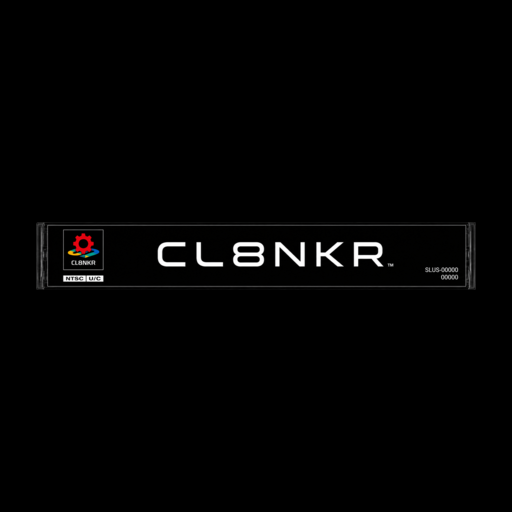
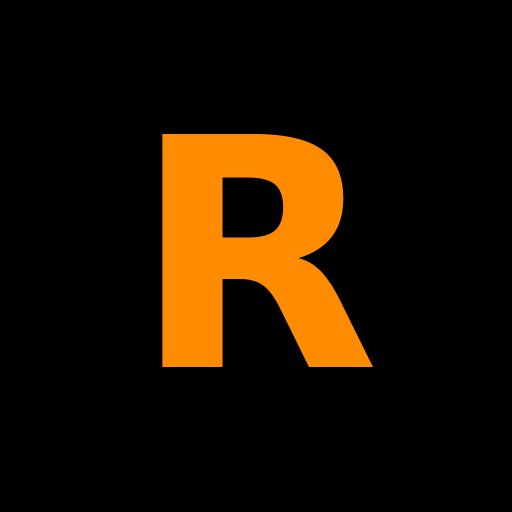
Replace ai-cmd's image branding with a text wordmark
Drop banner.png/skull-art holdovers from Clankr; header/PIN-gate now
render "REVERB" as styled text instead. Retheme --accent to the
burnt-amber CRT palette (matches kitty/VS Code) and regenerate PWA
icons to match instead of shipping CL8NKR's.

diff --git a/src/components/ChatView.jsx b/src/components/ChatView.jsx
@@ -6,54 +6,6 @@ import { playThinkingBeep, playDoneBeep } from '../audio.js';
 
 const DEFAULT_SYSTEM = 'You are Reverb, a personal assistant with access to the user\'s texts, calendar, and email. You have three tools: get_recent_texts, get_upcoming_events, and get_recent_emails. Use them whenever the user asks about messages, their schedule, or their inbox — never guess at this information. Answer everything else from your own knowledge.';
 
-const SKULL = `
-                                                              67         24
-                                                        6                     72587
-                                                                                  7245882
-                                                2              6   6                6744558846
-                                                 66  6   6  6       6 6                62488888856
-                                           6 66 666    6   6 66 6  6  666  66             7455888885
-                                         6    6666      66 6 6  6 6 6     6     6 6   667 624458888885
-                                       6  6       6  6 6    6 6  6 6 66 6 66      6     6724455558888882
-                                      6  66  6666666   6      6 6 6  6 6   6    6666667772255588588888887
-                                     7  6666 66666  6     6 6                      6744444445888858888888
-                                     7  666 6 6                          6        762425558888588888888888
-                                     2   6    66666666 666766666666666666   777762424228885455558888888888
-                                     2    66 6         6       6                 6624248544545888858588888
-                                     7   66  6  6 6    66     66       6666       674448554248885588588888
-                                     2                 6 6  6                 6    62258552588855588588888
-                                    66                 7                           7 645525888855555555888
-                                            6442        76          625888852     6     458888544554545888
-                                       488888888884   7 7         25888855544455542 74    6458545555245885
-                                     488888888888584       27    7588885552767454446 472   64855455445884
-                                      58888885458852      7446   788885555267667252 27577626 55855555882
-                                      78888884558854767   2447 6  6488555427776  65 6767  7766455588588
-                                      688888844582745888456 4667      58552666276657      677 255885588
-                                       88888852     4888725   76        65542  6747    6  224 288888888
-                                                    58587528   77    6       72766       656  222558887
-                                                    555557275  6 6242                   65566622424584
-                                        6           48558467786   7226852    6 6       25857662554258
-                                     7        67    688858442256 62767   2        6245858555885472254
-                                     77    6         88826  6286      72674    77   454858522558255
-                                      6         6         7726        7726727666    744556   526
-                                                  6      74       7   64766254246  676448    74
-                                                 666             6   74    2754         8    62
-                                             8   66 6 6    6  6 6  7  7    7457         484 72
-                                             2   66 6 6  6                 7482      6  455776
-                                             7                76 64  7472742442         78422
-                                             7   7  7  7 476467    72    7  6252        65424
-                                             7  676    7    7   6  6   2627 6675   6 6  25544
-                                                26   6 7    2        77246777  287     64555
-                                            6   6  6  6       6  67  66 7  76 22  6   655555
-                                             6  67627 776 77267      4 67   47   6   2455452
-                                                     2            4  77    27     64555552
-                                            7  6   6 4 6 67    66677   772576    255547
-                                                6766 6  666676676  776744447  64852
-                                             2  6666 7  6666        24554472455
-                                                666  7 666  6     7458545554
-                                               7    76         754424587
-                                                          62   277
-`;
 const PREFER_MODEL   = 'supergemma4-e4b';
 
 
@@ -324,7 +276,7 @@ export default function ChatView({ auth, onLockout }) {
     <div className="app-shell">
       {/* Header */}
       <header>
-        <img src="/banner.png" className="logo" alt="Reverb" />
+        <span className="logo">REVERB</span>
         {convTitle && <span className="conv-header-title">{convTitle}</span>}
         <div className="header-controls">
           <div className="model-picker-wrap" ref={modelPickerRef}>
@@ -363,8 +315,6 @@ export default function ChatView({ auth, onLockout }) {
           autoScrollRef.current = el.scrollHeight - el.scrollTop - el.clientHeight < 80;
         }}
       >
-        <pre className="bg-art" aria-hidden="true">{SKULL}</pre>
-
         {messages.length === 0 && !pending && (
           <div className="welcome"><p>How can I help?</p></div>
         )}

diff --git a/src/style.css b/src/style.css
@@ -8,7 +8,7 @@
   --muted:   #444444;
   --fg:      #d8d8d8;
   --fg-dim:  #666666;
-  --accent:  #ffffff;
+  --accent:  #FF8C00;
   --blue:      #3c78ff;
   --blue-dim:  rgba(60,120,255,0.8);
   --red:     #cc2222;
@@ -98,7 +98,7 @@ header {
   padding: 0 16px;
   padding-top: env(safe-area-inset-top, 0);
   background: var(--bg2);
-  border-top:    2px solid #cc0000;
+  border-top:    2px solid var(--accent);
   border-bottom: 1px solid var(--border);
   flex-shrink: 0;
   position: sticky;
@@ -108,11 +108,12 @@ header {
 }
 
 .logo {
-  height: 36px;
-  width: auto;
-  max-width: 220px;
+  font-family: var(--font);
+  font-size: 1rem;
+  font-weight: bold;
+  letter-spacing: 0.28em;
+  color: var(--accent);
   display: block;
-  image-rendering: -webkit-optimize-contrast;
 }
 
 .conv-header-title {
@@ -669,7 +670,13 @@ header {
   padding: 24px 16px;
 }
 
-.pin-logo { height: 56px; width: auto; }
+.pin-logo {
+  font-family: var(--font);
+  font-size: 1.6rem;
+  font-weight: bold;
+  letter-spacing: 0.3em;
+  color: var(--accent);
+}
 
 .pin-title {
   font-family: var(--font);
@@ -787,7 +794,7 @@ header {
   }
 
   /* Logo takes its own row; controls wrap to the row below */
-  .logo { height: auto; max-height: 48px; max-width: none; width: auto; }
+  .logo { font-size: 0.85rem; }
 
   .icon-header-btn {
     width: 40px;

diff --git a/src/components/PinGate.jsx b/src/components/PinGate.jsx
@@ -79,7 +79,7 @@ export default function PinGate({ mode: initialMode, onAuth }) {
   return (
     <div className="pin-gate">
       <div className="pin-inner">
-        <img src="/banner.png" className="pin-logo" alt="Reverb" />
+        <span className="pin-logo">REVERB</span>
         <p className="pin-title">{titles[mode]}</p>
 
         <div className="pin-dots">

diff --git a/vite.config.js b/vite.config.js
@@ -9,7 +9,7 @@ export default defineConfig({
     tailwindcss(),
     VitePWA({
       registerType: 'autoUpdate',
-      includeAssets: ['banner.png', 'icon-192.png', 'icon-512.png', 'apple-touch-icon.png'],
+      includeAssets: ['icon-192.png', 'icon-512.png', 'apple-touch-icon.png'],
       manifest: {
         name: 'Reverb',
         short_name: 'Reverb',
